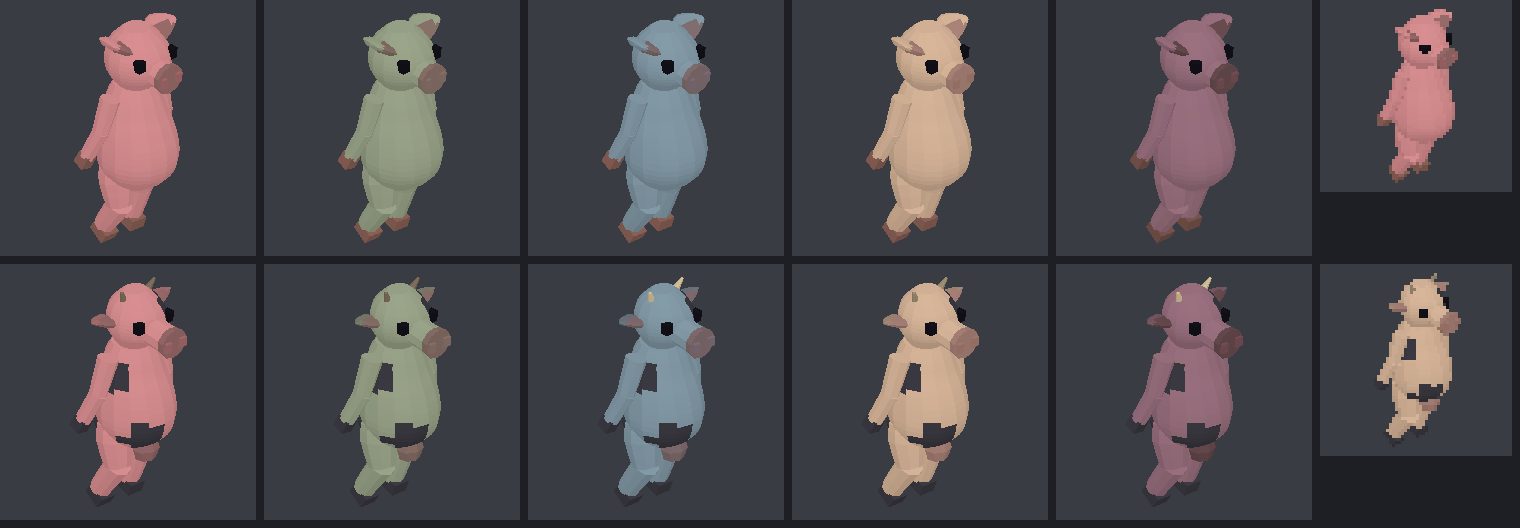
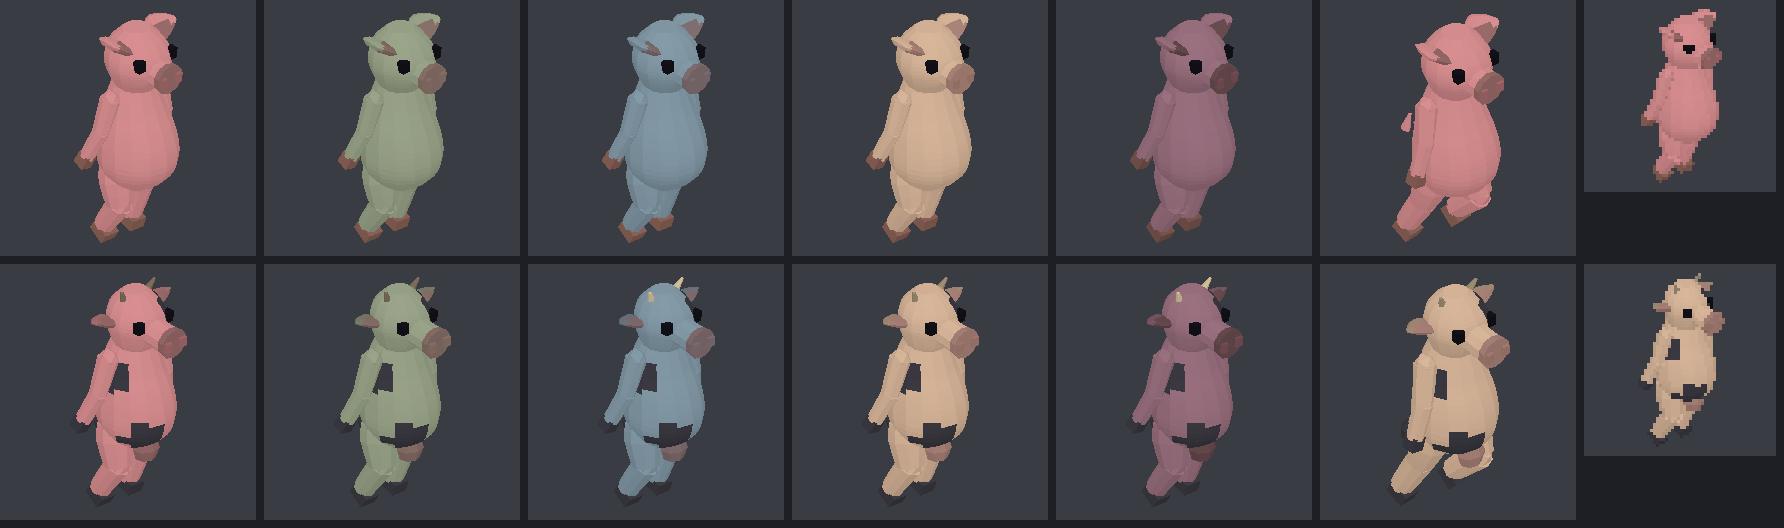
critters: mask the joins, by overlap where rigid and by pivot balls where not
Two kinds of join needing opposite fixes. Muzzle-into-skull and head-into-torso
never move relative to each other, so they are buried in each other: two
surfaces meeting at a shared plane show the seam as a ledge however well the
radii match. Shoulder, elbow, hip and knee cannot be fixed that way -- an
overlap tuned to close at rest opens into a wedge on the outside of the bend,
and a run takes these knees past a radian.

Those get a ball centred exactly on the pivot. The pivot is the one point a
rotation about it leaves fixed, so the ball does not move however far the limb
swings; while its radius covers the thicker segment there is no angle that can
open a gap. Only a shape centred on the axis of rotation has that property.

The preview now draws a hard-run pose beside the walk, because at a walk almost
any construction looks fine and the joints are only tested at full bend.

Claude-Session: https://claude.ai/code/session_015GoLXqtXh7jyYX3H5xhxcg

diff --git a/src/render/critters/body.ts b/src/render/critters/body.ts
@@ -27,6 +27,55 @@ import { BONE, type FigureMetrics } from '../cloth/figure.js';
 import { hullExtent } from './resolve.js';
 import type { CoatRole, HullRing, PaintBlob, PartSpec } from './types.js';
 
+/**
+ * A ball centred exactly on a joint's pivot, filling the wedge that opens
+ * between two limb segments when the joint bends.
+ *
+ * ## How body-part transitions are masked
+ *
+ * There are two kinds of join on these characters and they need opposite fixes.
+ *
+ * **Rigid joins** -- muzzle into skull, head into torso -- never move relative
+ * to each other, so they are masked by *overlap*: the child's first ring is
+ * pushed inside the parent's surface and the parent's last ring inside the
+ * child's, so neither end cap is ever on the silhouette. Two surfaces that meet
+ * exactly at a shared plane always show the seam as a ledge, however well the
+ * radii match.
+ *
+ * **Articulated joins** -- shoulder, elbow, hip, knee -- cannot be masked that
+ * way, because overlap that closes at rest opens into a visible wedge the moment
+ * the joint bends: the outside of the bend pulls the two segments apart. What
+ * works is a volume that *rotation cannot move*. A sphere centred on the pivot
+ * is exactly that: the joint rotates about its centre, so the sphere sits still
+ * however far the limb swings, and as long as its radius covers the thicker of
+ * the two segments there is no angle at which a gap can appear.
+ *
+ * This is why it is a ball and not, say, a longer overlap or a bridging cone --
+ * only a shape centred on the axis of rotation is angle-independent. It is also
+ * why these are cheap: 20 faces each, in the coat colour, and the ones buried
+ * inside the torso cost nothing on screen.
+ */
+export function joint(opts: {
+  readonly name: string;
+  /** The bone whose *origin* is the pivot. */
+  readonly bone: number;
+  /** Must be at least the larger of the two segments' radii at this joint. */
+  readonly radius: number;
+  readonly role?: CoatRole;
+}): PartSpec {
+  const d = opts.radius * 2;
+  return {
+    name: opts.name,
+    attach: opts.bone,
+    shape: 'ball',
+    role: opts.role ?? 'coat',
+    size: [d, d, d],
+    // The bone's own origin: the one point a rotation about this joint leaves
+    // fixed. Offsetting it at all reintroduces the gap it exists to close.
+    pos: [0, 0, 0],
+  };
+}
+
 /** Assemble a lofted-hull part, deriving its extent from its own rings. */
 export function hull(opts: {
   readonly name: string;
@@ -70,6 +119,10 @@ export function hull(opts: {
  * because the gait counter-twists those two against each other, and a torso
  * split across that joint visibly shears at a run. Riding the chest instead
  * gives the whole barrel a gentle sway, which is what you want anyway.
+ *
+ * The top ring should run *past* the neck and inside the head, and the head's
+ * bottom ring back down inside the torso -- see {@link joint} for why a rigid
+ * join wants overlap rather than a shared plane.
  */
 export function torso(
   f: FigureMetrics,
@@ -236,6 +289,8 @@ export function bipedArms(
         pos: [0, 0, 0],
       }),
     );
+    out.push(joint({ name: `shoulder${tag}`, bone: upper, radius: shoulder }));
+    out.push(joint({ name: `elbow${tag}`, bone: fore, radius: elbow }));
     out.push({
       name: `hand${tag}`,
       attach: fore,
@@ -300,6 +355,10 @@ export function bipedLegs(
         pos: [0, 0, 0],
       }),
     );
+    out.push(joint({ name: `hip${tag}`, bone: thigh, radius: hip * 0.9 }));
+    // The knee is the one joint on these characters that bends far enough to
+    // matter -- a walk cycle takes it past a radian at a run.
+    out.push(joint({ name: `knee${tag}`, bone: shin, radius: knee }));
     out.push({
       name: `hoof${tag}`,
       attach: shin,

diff --git a/src/render/critters/species.test.ts b/src/render/critters/species.test.ts
@@ -5,6 +5,7 @@ import { CRITTERS, CRITTER_IDS } from './index.js';
 import { deriveCoat, MIN_ACCENT_CONTRAST, PLAYER_COATS } from './palette.js';
 import {
   attachmentNames,
+  boneOrigins,
   boundsOf,
   resolveParts,
   resolveSockets,
@@ -143,6 +144,71 @@ describe.each(SPECIES.map((s) => [s.name, s] as const))('%s: legibility at 64px'
     const right = boundsOf(species, (p) => p.name.startsWith('hoofR'));
     expect(left.maxZ).toBeLessThan(right.minZ);
     expect(right.minZ - left.maxZ).toBeGreaterThan(2);
+  });
+});
+
+describe.each(SPECIES.map((s) => [s.name, s] as const))('%s: joins', (_name, species) => {
+  /** Bones the gait rotates, and which the limb hulls hang off. */
+  const ARTICULATED = [
+    BONE.upperArmL,
+    BONE.forearmL,
+    BONE.upperArmR,
+    BONE.forearmR,
+    BONE.thighL,
+    BONE.shinL,
+    BONE.thighR,
+    BONE.shinR,
+  ] as const;
+
+  it('covers every articulated joint with a ball on its pivot', () => {
+    // How the seam between two limb segments is masked, and the only way that
+    // survives the joint bending: a sphere centred exactly on the pivot. The
+    // pivot is the one point a rotation about it leaves fixed, so the sphere
+    // does not move however far the limb swings, and while its radius covers the
+    // thicker of the two segments no angle can open a gap.
+    //
+    // Overlap -- which is what masks the *rigid* joins -- cannot do this job. An
+    // overlap tuned to close at rest pulls apart on the outside of the bend, and
+    // a walk cycle takes these knees past a radian at a run.
+    const parts = resolveParts(species);
+    for (const bone of ARTICULATED) {
+      const hulls = parts.filter((p) => p.attach === bone && p.shape === 'hull');
+      if (hulls.length === 0) continue;
+
+      const balls = parts.filter(
+        (p) =>
+          p.attach === bone &&
+          p.shape === 'ball' &&
+          Math.hypot(p.pos[0], p.pos[1], p.pos[2]) < 1e-6,
+      );
+      expect(balls.length, `bone ${bone} has no joint ball on its pivot`).toBeGreaterThan(0);
+
+      // The ball has to be at least as fat as the segment leaving the joint.
+      const widest = Math.max(...hulls.map((h) => Math.max(h.size[0], h.size[2])));
+      const ball = Math.max(...balls.map((b) => Math.max(b.size[0], b.size[2])));
+      expect(ball, `bone ${bone}: joint ${ball} vs limb ${widest}`).toBeGreaterThanOrEqual(
+        widest * 0.9,
+      );
+    }
+  });
+
+  it('overlaps the head and torso rather than butting them together', () => {
+    // The rigid joins are masked the other way round: neither end cap may sit on
+    // the silhouette, so the torso runs up inside the skull and the head starts
+    // back down inside the torso. Two surfaces meeting at a shared plane show
+    // the seam as a ledge however well their radii match.
+    const parts = resolveParts(species);
+    const torso = parts.find((p) => p.name === 'torso');
+    const head = parts.find((p) => p.name === 'head');
+    expect(torso?.rings, 'no torso hull').toBeDefined();
+    expect(head?.rings, 'no head hull').toBeDefined();
+    if (!torso?.rings || !head?.rings) return;
+
+    // Both are attached to different bones, so compare in world height at rest.
+    const bones = boneOrigins(species.metrics);
+    const torsoTop = Math.max(...torso.rings.map((r) => r.along)) + (bones[BONE.chest]?.y ?? 0);
+    const headBottom = Math.min(...head.rings.map((r) => r.along)) + (bones[BONE.head]?.y ?? 0);
+    expect(torsoTop, 'torso stops before the head starts').toBeGreaterThan(headBottom + 2);
   });
 });
 

diff --git a/scripts/preview-critters.ts b/scripts/preview-critters.ts
@@ -36,6 +36,14 @@ const AMBIENT = 0.6;
 /** How far the rig is walked before it is drawn, so the pose is mid-stride. */
 const WARMUP_FRAMES = 96;
 const WALK_SPEED_PER_FRAME = 1.1;
+/**
+ * A hard run, drawn alongside the walk. Not decoration: it is the pose that
+ * shows whether the joints hold. Limbs are separate hulls, so at a walk almost
+ * any construction looks fine, and it is only past a radian of knee bend that a
+ * gap opens between two segments -- which is precisely the pose nobody looks at
+ * while modelling.
+ */
+const RUN_SPEED_PER_FRAME = 3.4;
 
 // --- Triangle collection --------------------------------------------------
 
@@ -208,12 +216,12 @@ function render(tris: readonly Tri[], size: number): Uint8ClampedArray {
 
 // --- Sheet ----------------------------------------------------------------
 
-/** Build a rig, walk it into a mid-stride pose, and hand back its triangles. */
-function posedTriangles(species: CritterSpecies, coat: number): Tri[] {
+/** Build a rig, drive it into a mid-stride pose, and hand back its triangles. */
+function posedTriangles(species: CritterSpecies, coat: number, speed = WALK_SPEED_PER_FRAME): Tri[] {
   const rig = new CritterRig(species, { tuning: defaultCritterTuning(), coat });
   let x = 0;
   for (let i = 0; i < WARMUP_FRAMES; i++) {
-    x += WALK_SPEED_PER_FRAME;
+    x += speed;
     rig.update(1 / 60, { x, y: 0 }, 0);
   }
   // Draw at the origin: the walk only ever moves the rig's *group*, which the
@@ -229,7 +237,7 @@ const swatches = COAT_IDS.map((id) => PLAYER_COATS.find((c) => c.id === id)).fil
 
 const cellW = BIG + GAP;
 const rowH = BIG + GAP;
-const sheetW = swatches.length * cellW + SMALL * SMALL_SCALE + GAP;
+const sheetW = (swatches.length + 1) * cellW + SMALL * SMALL_SCALE + GAP;
 const sheetH = CRITTER_IDS.length * rowH;
 const img = new PNG({ width: sheetW, height: sheetH, colorType: 6 });
 for (let i = 0; i < img.data.length; i += 4) {
@@ -264,9 +272,16 @@ CRITTER_IDS.forEach((id, row) => {
   swatches.forEach((swatch, col) => {
     blit(render(posedTriangles(species, swatch.hex), BIG), BIG, col * cellW, row * rowH);
   });
-  // The rightmost cell is the same rig at the size it actually ships at.
+  // Then the same animal at a hard run, where the joints are actually tested.
+  blit(
+    render(posedTriangles(species, species.defaultCoat, RUN_SPEED_PER_FRAME), BIG),
+    BIG,
+    swatches.length * cellW,
+    row * rowH,
+  );
+  // And last, at the size it actually ships at.
   const small = posedTriangles(species, species.defaultCoat);
-  blit(render(small, SMALL), SMALL, swatches.length * cellW, row * rowH, SMALL_SCALE);
+  blit(render(small, SMALL), SMALL, (swatches.length + 1) * cellW, row * rowH, SMALL_SCALE);
   process.stdout.write(`${species.name}: ${species.parts.length} declared parts, ${small.length} triangles\n`);
 });
 

diff --git a/src/render/critters/pig.ts b/src/render/critters/pig.ts
@@ -80,12 +80,19 @@ const TORSO_RINGS: readonly HullRing[] = [
   { along: 42, rx: 11.6, rz: 12.2, dx: 1.6 },
   { along: 47, rx: 10, rz: 10.6, dx: 0.8 },
   { along: 52, rx: 8.4, rz: 9, dx: 0.2 },
-  { along: 56, rx: 6.4, rz: 7, dx: 0 },
+  // Runs past the neck and up inside the skull. A torso that stops exactly
+  // where the head starts shows the seam as a ledge however well the radii
+  // match; buried, there is nothing to see.
+  { along: 57, rx: 6.6, rz: 7.2, dx: 0 },
+  { along: 60, rx: 5.6, rz: 6.2, dx: 0.4 },
 ];
 
 /** The skull, again in world height: a broad ball flattening toward the crown. */
 const HEAD_RINGS: readonly HullRing[] = [
-  { along: 56, rx: 5.4, rz: 6, dx: 1 },
+  // Starts below the neck, inside the torso, for the same reason the torso runs
+  // up inside the skull: the join is masked by overlap, not by a shared plane.
+  { along: 52.5, rx: 4.4, rz: 4.8, dx: 0.6 },
+  { along: 56, rx: 6.6, rz: 7.2, dx: 1 },
   { along: 60, rx: 9, rz: 9.6, dx: 1.4 },
   { along: 64, rx: 10.4, rz: 11, dx: 1.4 },
   { along: 68, rx: 10.2, rz: 10.6, dx: 1 },

diff --git a/src/render/critters/cow.ts b/src/render/critters/cow.ts
@@ -65,7 +65,9 @@ const TORSO_RINGS: readonly HullRing[] = [
   { along: 45, rx: 11.6, rz: 12.2, dx: 1.4 },
   { along: 50, rx: 10, rz: 10.6, dx: 0.6 },
   { along: 55, rx: 8.6, rz: 9.2, dx: 0 },
-  { along: 59, rx: 6.6, rz: 7.2, dx: 0 },
+  // Buried inside the skull -- see the pig's profile for why.
+  { along: 60, rx: 6.6, rz: 7.2, dx: 0 },
+  { along: 63, rx: 5.4, rz: 6, dx: 0.4 },
 ];
 
 /**
@@ -83,7 +85,9 @@ const TORSO_PATCHES: readonly PaintBlob[] = [
 
 /** A longer, narrower skull than the pig's. */
 const HEAD_RINGS: readonly HullRing[] = [
-  { along: 59, rx: 5.2, rz: 5.8, dx: 1 },
+  // Starts inside the torso, for the same reason.
+  { along: 55.5, rx: 4.4, rz: 4.8, dx: 0.6 },
+  { along: 59, rx: 6.6, rz: 7.2, dx: 1 },
   { along: 63, rx: 8.4, rz: 9, dx: 1.2 },
   { along: 67, rx: 9.6, rz: 10.2, dx: 1.2 },
   { along: 71, rx: 9.2, rz: 9.6, dx: 0.8 },

diff --git a/src/render/iso3d/critter.ts b/src/render/iso3d/critter.ts
@@ -378,10 +378,10 @@ function partGeometry(part: ResolvedPart): { geo: THREE.BufferGeometry; roles: C
     geo = new THREE.BoxGeometry(w, h, d).toNonIndexed();
   } else if (part.shape === 'ball') {
     // A unit icosahedron scaled to the part's extents: faceted, and elliptical
-    // without needing a separate sphere per axis ratio.
+    // without needing a separate sphere per axis ratio. Already non-indexed, so
+    // calling `toNonIndexed` on it would only earn a console warning.
     geo = new THREE.IcosahedronGeometry(0.5, facets ?? 0);
     geo.scale(w, h, d);
-    geo = geo.toNonIndexed();
   } else {
     // `taper` is the +y radius over the -y base, matching the spec's convention.
     const taper = part.taper ?? 0;

diff --git a/specs/049-critter-characters.md b/specs/049-critter-characters.md
@@ -135,6 +135,22 @@ number readable straight off a reference image — and the builder rebases it on
 the right joint. Adding a sheep is a new data file that calls the same builders
 and adds its own head furniture; it touches no rendering code.
 
+**Masking the joins between parts.** Two kinds, needing opposite fixes:
+
+- *Rigid* joins (muzzle into skull, head into torso) are masked by **overlap**:
+  the child's first ring goes inside the parent's surface and the parent's last
+  ring inside the child's, so neither end cap is ever on the silhouette. Two
+  surfaces meeting at a shared plane show the seam as a ledge however well their
+  radii match.
+- *Articulated* joins (shoulder, elbow, hip, knee) cannot be overlapped, because
+  an overlap tuned to close at rest opens into a wedge on the outside of the bend
+  — and a walk cycle takes these knees past a radian at a run. They are masked by
+  a **ball centred exactly on the pivot** (`joint()`): the pivot is the one point
+  a rotation about it leaves fixed, so the ball does not move however far the
+  limb swings, and while its radius covers the thicker of the two segments no
+  angle can open a gap. Only a shape centred on the axis of rotation is
+  angle-independent, which is why it is a ball and not a longer overlap.
+
 `palette.ts` holds the player coat swatches and the derivation from one picked
 colour to the full role map:
 
@@ -210,6 +226,13 @@ Rig (three.js, headless, no canvas):
 
 - Each species builds without throwing, produces one mesh per part (two per
   mirrored part), and every mirrored pair is a genuine z-mirror of its twin.
+- **Every hull face winds outward, on both loft axes.** Inside-out geometry is
+  invisible rather than wrong-looking — three.js culls back faces, so a flipped
+  hull loses its near surface and shows the inside of its far one — and the two
+  loft axes have opposite handedness, so each needs checking separately.
+- Every articulated joint carries a ball on its pivot at least as wide as the
+  limb segments meeting there, and the head and torso overlap rather than butting
+  together. These are the two masking rules above, asserted.
 - Every hull lofts to within a bounded factor of the extent its own rings
   declare, so the derived `size` the legibility tests measure through cannot
   drift from the body actually on screen.
